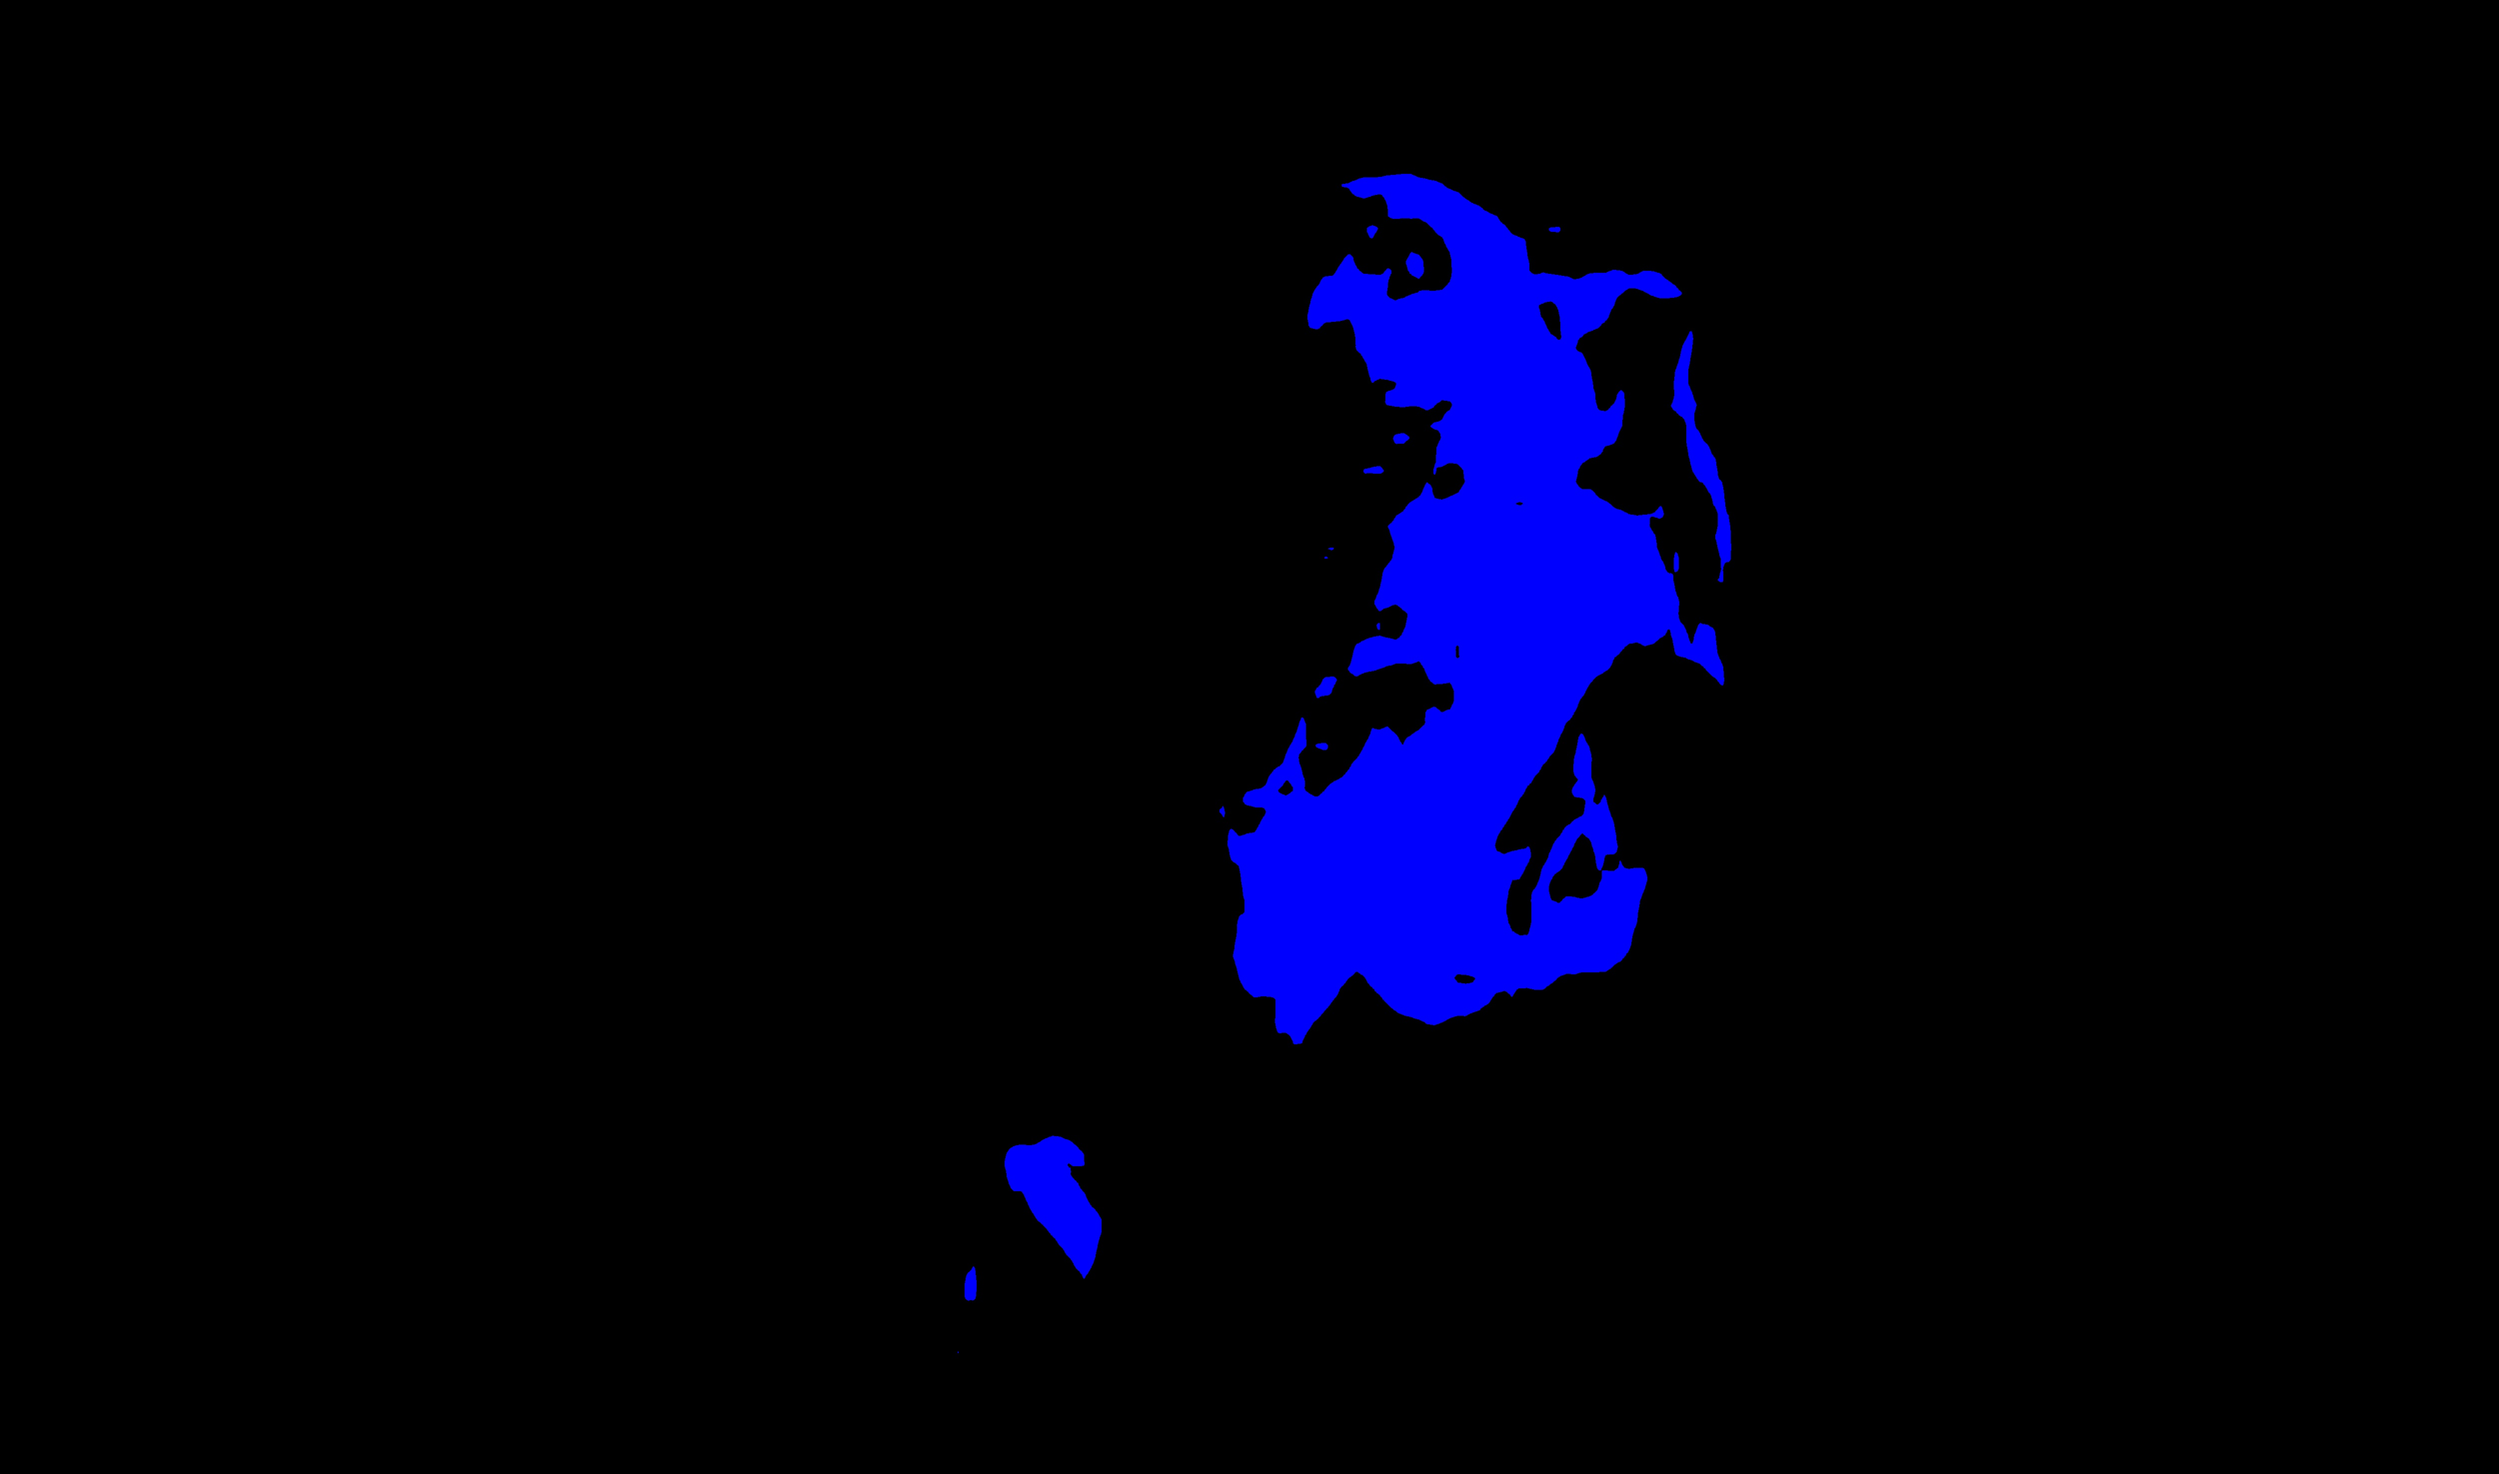
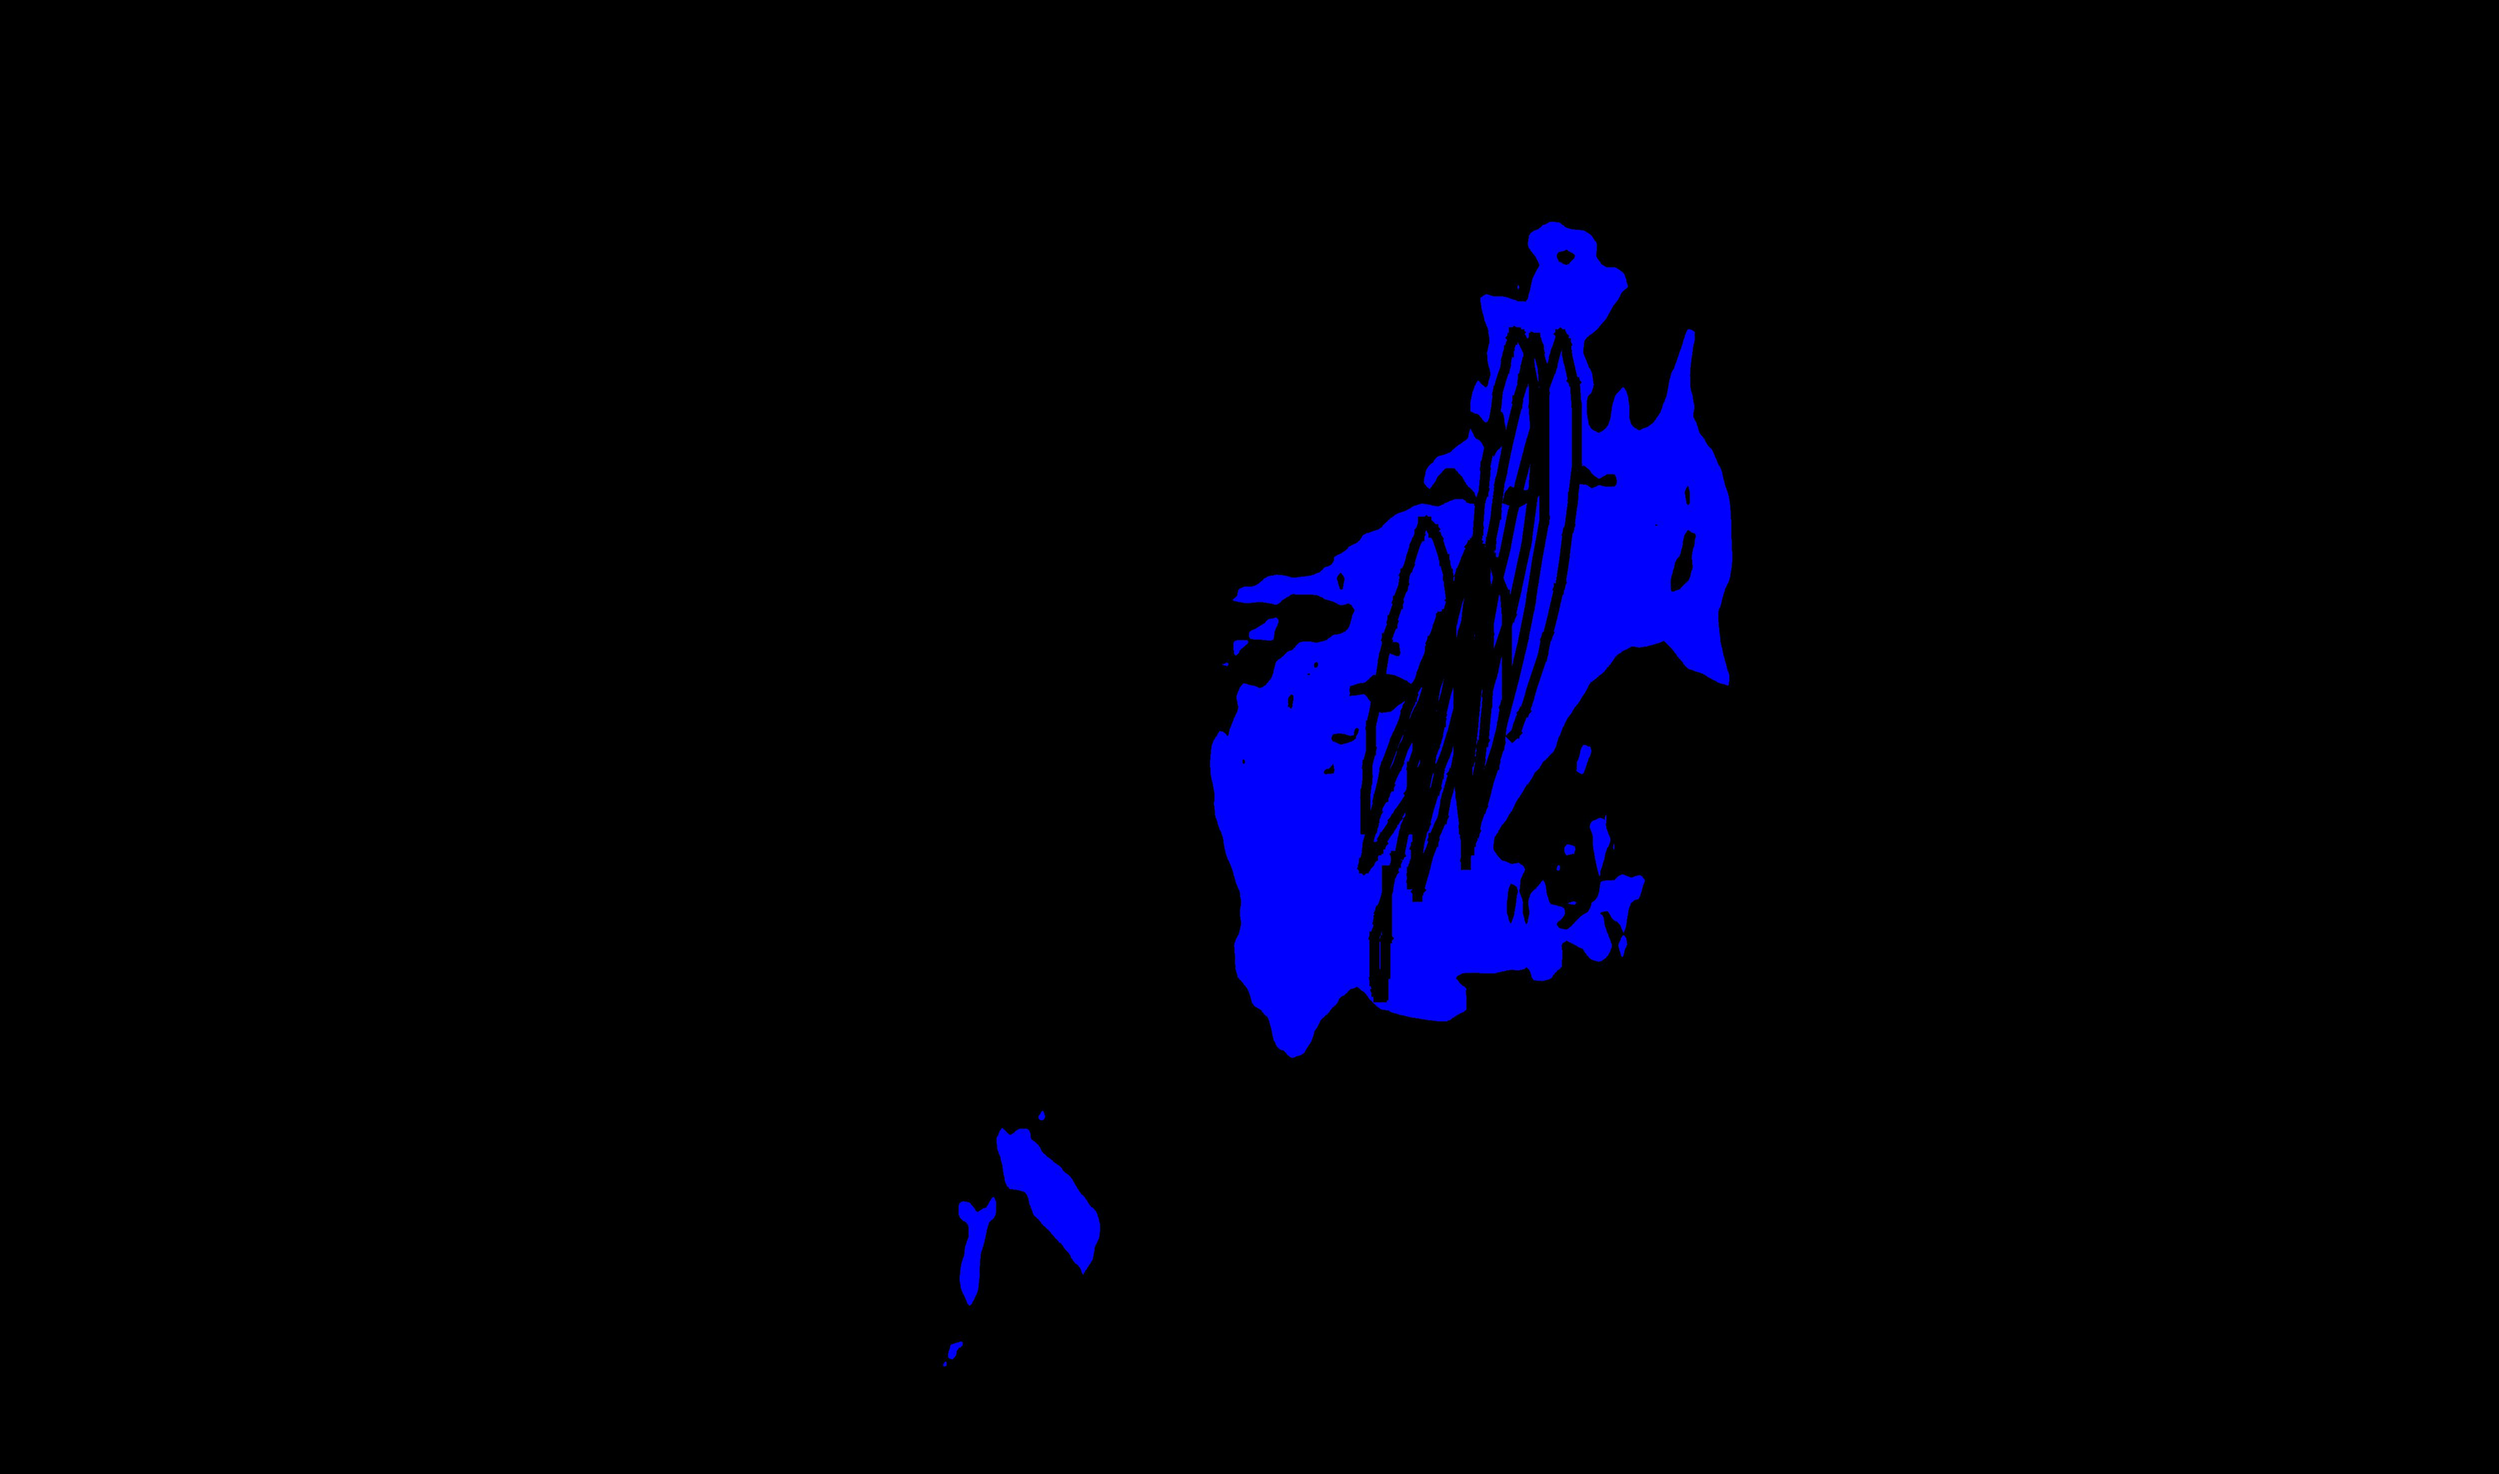
half work of pencil and eraser

diff --git a/VOStyle/VOStyle/custom/graphicsView.py b/VOStyle/VOStyle/custom/graphicsView.py
@@ -5,7 +5,7 @@ from PyQt5.QtCore import *
 from PyQt5.QtWidgets import *
 
 import numpy as np
-
+import settting
 
 class GraphicsView(QGraphicsView):
     def __init__(self, parent=None):
@@ -36,19 +36,22 @@ class GraphicsView(QGraphicsView):
         self.paint_dot = False  # 当前是否需要画点
         self.rec = None
         self.dot = None
-        self.drawing = False
+        self.drawing = False    #是否在添加像素
+        self.drawitems = []
+        
 
-        self.pen = QPen()
-        self.pen.setColor(QColor(255,0,0))
         self.pen = QPen(Qt.SolidLine)
-        self.pen.setWidth(20)
+        self.pen.setColor(QColor(settting.PEN_COLOR[0],settting.PEN_COLOR[1],settting.PEN_COLOR[2]))
+        self.pen.setWidth(settting.PENCIL_WIDTH)
 
         self.currx = 0
         self.curry = 0
         self.lastx = 0
         self.lasty = 0
-
-        self.count = 0
+        
+        self._scene2 = QGraphicsScene(None)
+        
+        
 
 
     def contextMenuEvent(self, event):
@@ -92,6 +95,7 @@ class GraphicsView(QGraphicsView):
     def fitInView(self, scale=True):
         # 转化图片大小
         rect = QRectF(self._photo.pixmap().rect())
+        
         if not rect.isNull():
             self.setSceneRect(rect)
             if self.has_photo():
@@ -168,11 +172,13 @@ class GraphicsView(QGraphicsView):
         self._scene.addItem(self.rec)
 
     def paint_path(self):
-        test = QGraphicsLineItem()
-        test.setPen(self.pen)
+        item = QGraphicsLineItem()
+        item.setPen(self.pen)
         
-        test.setLine(self.lastx,self.lasty,self.currx,self.curry)
-        self._scene.addItem(test)
+        item.setLine(self.lastx,self.lasty,self.currx,self.curry)
+        self._scene.addItem(item)
+        self.drawitems.append(item)
+
 
     def mouseReleaseEvent(self, event):
         super(GraphicsView, self).mouseReleaseEvent(event)
@@ -242,16 +248,59 @@ class GraphicsView(QGraphicsView):
         # 返回画线的中点
         return int((self.xc0 + self.xc1) / 2), int((self.yc0 + self.yc1) / 2)
 
-    def start_drawing(self):
+    def start_drawing(self,img):
+        #self.mask.setPixmap(self.img_to_pixmap(img))
+        #self._scene2.addItem(self.mask)
+        img2 = self.img_to_pixmap(img)
+        self._scene2.addPixmap(img2)
+        self.pen.setColor(QColor(settting.PEN_COLOR[2],settting.PEN_COLOR[1],settting.PEN_COLOR[0]))
+        self.pen.setWidth(settting.PENCIL_WIDTH)
         self.drawing = True
 
     def end_drawing(self):
+        photo = self._photo.pixmap()
+        
+        image = QImage(photo.size(),QImage.Format_ARGB32)
+        painter = QPainter()
+        painter.begin(image)
+        painter.setRenderHint(QPainter.Antialiasing)
+        for item in self.drawitems:
+            self._scene2.addItem(item)
+        self._scene2.render(painter)
+        painter.end()
+        image.save('./work_folder/segmentation_temp/seg_photo.jpg')
+        final_pic = cv2.imread('./work_folder/segmentation_temp/seg_photo.jpg')
+        
+        for item in self.drawitems:
+            self._scene.removeItem(item)
+            self._scene2.removeItem(item)
+        self.update()
         self.drawing = False
+        return final_pic
 
-    def start_erase(self):
+    def start_erase(self,img):
+        img2 = self.img_to_pixmap(img)
+        self._scene2.addPixmap(img2)
+        self.pen.setColor(QColor(settting.ERASE_COLOR[2],settting.ERASE_COLOR[1],settting.ERASE_COLOR[0]))
+        self.pen.setWidth(settting.ERASER_WIDTH)
         self.drawing = True
 
     def end_erase(self):
+        photo = self._photo.pixmap()
+        
+        image = QImage(photo.size(),QImage.Format_ARGB32)
+        painter = QPainter()
+        painter.begin(image)
+        for item in self.drawitems:
+            self._scene2.addItem(item)
+        self._scene2.render(painter)
+        painter.end()
+        image.save('./work_folder/segmentation_temp/seg_photo.jpg')
+        final_pic = cv2.imread('./work_folder/segmentation_temp/seg_photo.jpg')
+        for item in self.drawitems:
+            self._scene.removeItem(item)
+            self._scene2.removeItem(item)
+        self.update()
         self.drawing = False
-
+        return final_pic
     

diff --git a/VOStyle/VOStyle/main.py b/VOStyle/VOStyle/main.py
@@ -11,7 +11,7 @@ from custom.listWidgets import FuncListWidget, UsedListWidget
 from custom.graphicsView import GraphicsView
 from custom.listWidgetItems import SegmentationItem
 from custom.videoSegmentation import videoSegmentationProducer
-
+from python_script import test_demo_mix
 
 class MyApp(QMainWindow):
     def __init__(self):
@@ -27,6 +27,8 @@ class MyApp(QMainWindow):
                                                  'work_folder', 'video_annotations')
         self.segmentationResults_save_dir = os.path.join(self.main_save_dir_root,
                                                          'work_folder', 'segmentation_results')
+        self.segmentationResults_temp_dir = os.path.join(self.main_save_dir_root,
+                                                    'work_folder', 'segmentation_temp')                                                 
         self.cur_frame_name = None
 
         if not os.path.exists(self.frames_save_dir):
@@ -35,6 +37,8 @@ class MyApp(QMainWindow):
             os.makedirs(self.annotations_save_dir)
         if not os.path.exists(self.segmentationResults_save_dir):
             os.makedirs(self.segmentationResults_save_dir)
+        if not os.path.exists(self.segmentationResults_temp_dir):
+            os.makedirs(self.segmentationResults_temp_dir)
 
         self.action_right_rotate = QAction(
             QIcon("icons/右旋转.png"), "向右旋转90", self)
@@ -164,6 +168,7 @@ class MyApp(QMainWindow):
                     self.seg_img = res
                 else:
                     img = self.useListWidget.item(i)(img, self.seg_mode)
+                    
             else:
                 img = self.useListWidget.item(i)(img)
         return img
@@ -175,6 +180,12 @@ class MyApp(QMainWindow):
                 combined_mask = self.useListWidget.item(i).get_mask_only()
                 break
         return combined_mask
+
+    def change_mask(self,img):
+        for i in range(self.useListWidget.count()):
+            if isinstance(self.useListWidget.item(i), SegmentationItem):
+                self.useListWidget.item(i).change_mask(img)
+                break 
 
     def start_play(self):
         if self.playing is False:
@@ -259,16 +270,20 @@ class MyApp(QMainWindow):
         return self.graphicsView.get_cpoint()
     
     def use_pencil(self):
-        self.graphicsView.start_drawing()
+        self.graphicsView.start_drawing(self.seg_img)
 
     def no_use_pencil(self):
-        self.graphicsView.end_drawing()
+        self.seg_img = self.graphicsView.end_drawing()
+        self.change_mask(self.seg_img)
+        img = test_demo_mix.show_image_process(self.cur_img, self.seg_img, self.seg_mode)
+        self.cur_img = img
+        self.graphicsView.update_image(img)
 
     def use_eraser(self):
-        self.graphicsView.start_erase()
+        self.graphicsView.start_erase(self.seg_img)
 
     def no_use_eraser(self):
-        self.graphicsView.end_erase()
+        self.seg_img = self.graphicsView.end_erase()
 
 
 

diff --git a/VOStyle/VOStyle/custom/listWidgetItems.py b/VOStyle/VOStyle/custom/listWidgetItems.py
@@ -240,6 +240,7 @@ class SegmentationItem(MyItem):
         self.mode = 0
 
         self.current_mask = None
+        self.pure_mask = None
         # 初始化几个点
         items = [self.mode, self.x0, self.y0,
                  self.x1, self.y1, self.xc, self.yc]
@@ -264,11 +265,15 @@ class SegmentationItem(MyItem):
             # res 是分割结果，可以储存一下？
             res = pred_click(img, bpoint, cpoint, self.model, self.mode)
             self.current_mask = combine_mask(self.current_mask, res)
+            self.pure_mask = res 
 
         if seg_mode == 1 or seg_mode == 3:
-            return res,show_image_process(img, self.current_mask, seg_mode)
+            return self.pure_mask,show_image_process(img, self.current_mask, seg_mode)
         elif seg_mode == 4:
             return img
 
     def get_mask_only(self):
         return self.current_mask
+
+    def change_mask(self,img):
+        self.current_mask = img

diff --git a/VOStyle/VOStyle/custom/tableWidget.py b/VOStyle/VOStyle/custom/tableWidget.py
@@ -556,7 +556,6 @@ class SegmentationWidget(TableWidget):
 
     def use_eraser(self):
         print("i am using eraser")
-        settting.PEN_COLOR = settting.ERASE_COLOR
         self.mainwindow.use_eraser()
 
     def no_use_pencil(self):
